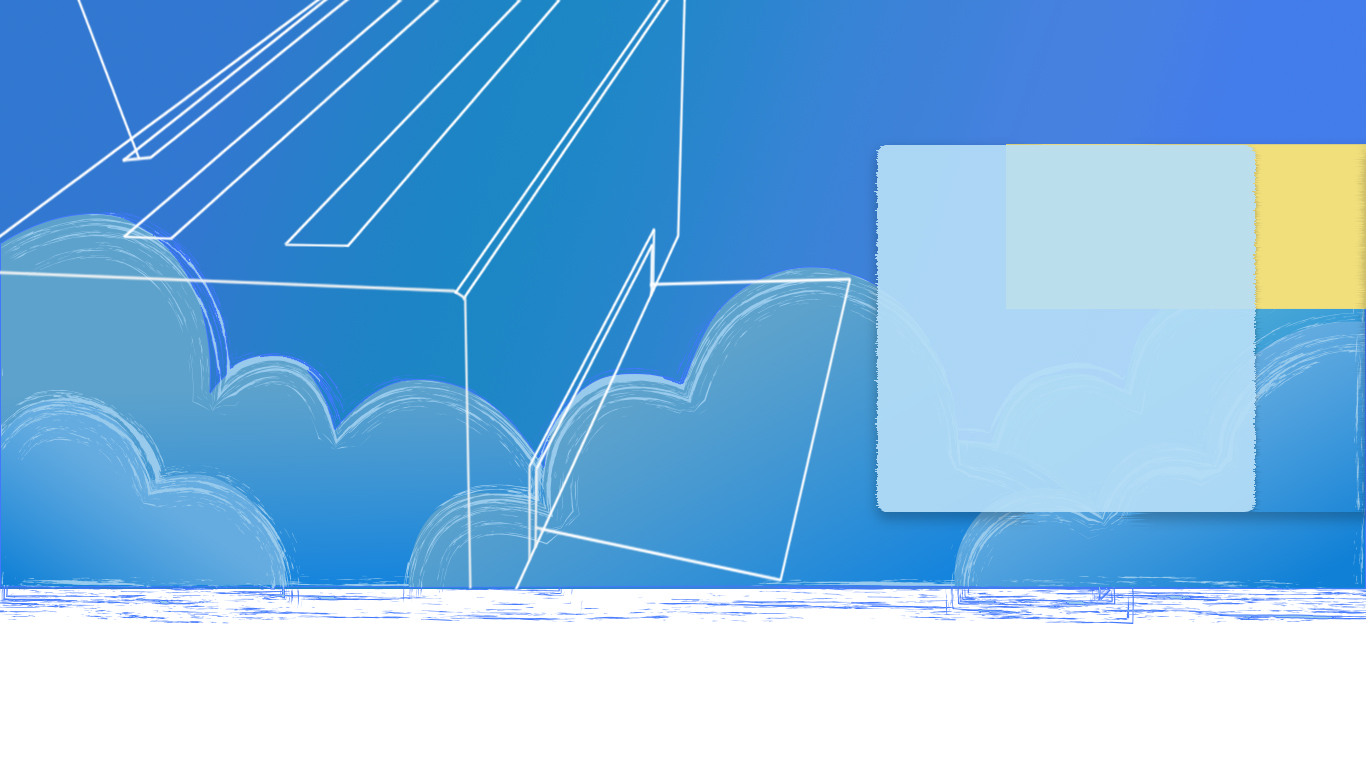
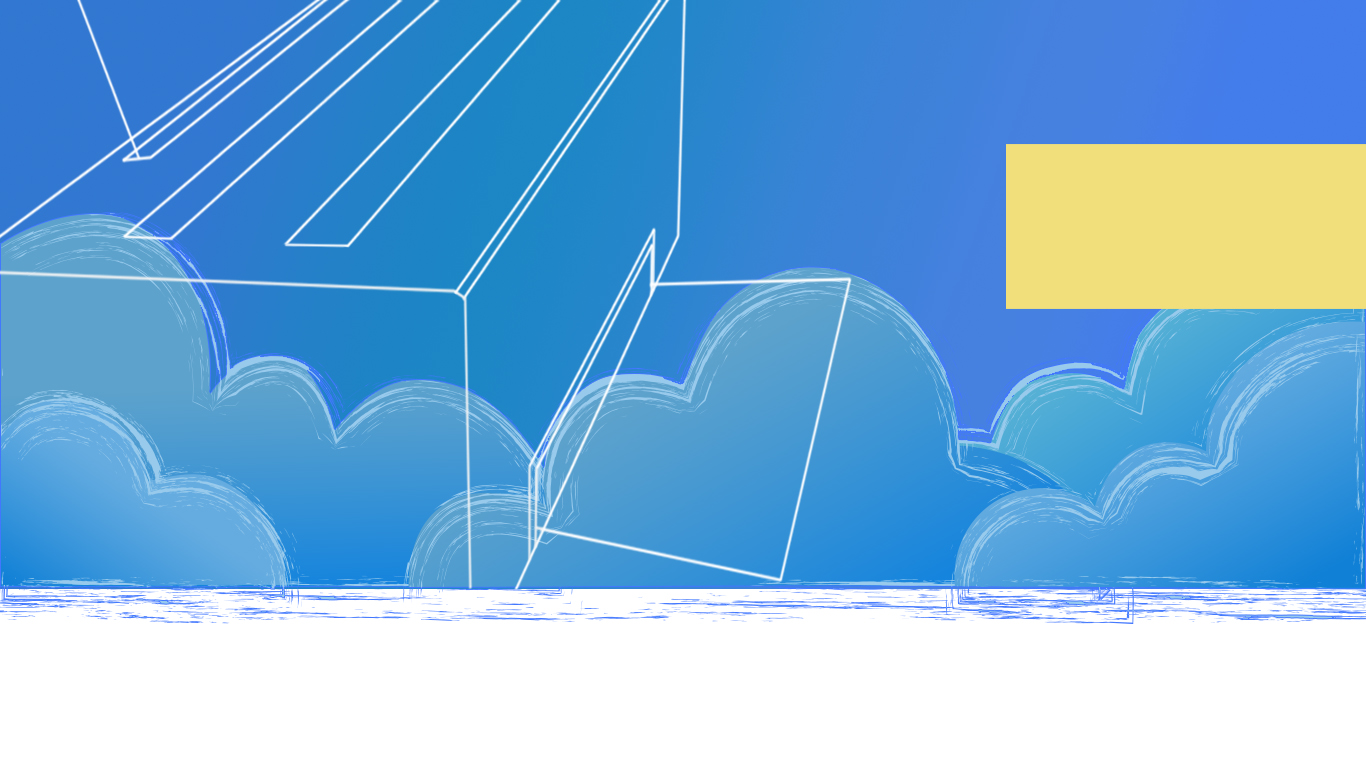
1. 文件名太长时显示 ... 2. 商家订单页增加 "创建时间" 列，并自动降序 3. 文件名等和按钮对齐

Changed region(s): [[0.6149, 0.1875, 1.0, 0.6875], [0.9839, 0.2188, 1.0, 0.5625]]

diff --git a/src/components/Table/UnFinishList.js b/src/components/Table/UnFinishList.js
@@ -8,7 +8,7 @@
 import React from 'react';
 import PropTypes from 'prop-types';
 import { Table, Button, Modal, Icon, Popconfirm } from 'antd';
-
+import styles from './UnFinishList.css'
 class UnFinishList extends React.Component {
 
   constructor(props){
@@ -73,11 +73,11 @@ class UnFinishList extends React.Component {
           file3 = data.file3info;
         if(file1 !== null) {
           if(file2 === null) {
-            return (<span><p>{file1.filename}</p></span>)
+            return (<span><p className={styles.ptitle}>{file1.filename}</p></span>)
           }else if(file3 === null ){
-            return(<span><p>{file1.filename}</p><p>{file2.filename}</p></span>)
+            return(<span><p className={styles.ptitle}>{file1.filename}</p><p className={styles.ptitle}>{file2.filename}</p></span>)
           } else {
-            return(<span><p>{file1.filename}</p><p>{file2.filename}</p><p>{file3.filename}</p></span>)
+            return(<span><p className={styles.ptitle}>{file1.filename}</p><p className={styles.ptitle}>{file2.filename}</p><p className={styles.ptitle}>{file3.filename}</p></span>)
           }
         }
       },
@@ -94,8 +94,8 @@ class UnFinishList extends React.Component {
         return(
           <span>
             <p>{row.file1color ? '彩色' : '黑白'}</p>
-            { file2 === null ? '' : <p>{row.file2color ? '彩色' : '黑白'}</p> }
-            { file3 === null ? '' : <p>{row.file3color ? '彩色' : '黑白'}</p> }
+            { file2 === null ? null : <p>{row.file2color ? '彩色' : '黑白'}</p> }
+            { file3 === null ? null : <p>{row.file3color ? '彩色' : '黑白'}</p> }
           </span>
         )
       },
@@ -111,8 +111,8 @@ class UnFinishList extends React.Component {
         return(
           <span>
             <p>{row.file1style ? '双页' : '单页'}</p>
-            { file2 === null ? '' : <p>{row.file2style ? '双页' : '单页'}</p> }
-            { file3 === null ? '' : <p>{row.file3style ? '双页' : '单页'}</p> }
+            { file2 === null ? null : <p>{row.file2style ? '双页' : '单页'}</p> }
+            { file3 === null ? null : <p>{row.file3style ? '双页' : '单页'}</p> }
           </span>
         )
       },
@@ -128,20 +128,23 @@ class UnFinishList extends React.Component {
         return(
           <span>
             <p>{row.file1num + '份'}</p>
-            { file2 === null ? '' : <p>{row.file2num + '份'}</p> }
-            { file3 === null ? '' : <p>{row.file3num + '份'}</p> }
+            { file2 === null ? null : <p>{row.file2num + '份'}</p> }
+            { file3 === null ? null : <p>{row.file3num + '份'}</p> }
           </span>
         )
       },
     }, {
-      title: '备注',
-      width: 300,
-      dataIndex: 'remark',
-      render: (remark) => { return remark ? remark : '该用户未留备注'}
+      title: '创建时间',
+      align: 'center',
+      dataIndex: 'createtime',
+      defaultSortOrder: 'descend',
+      sorter : (a,b) => a.createtime.replace(/[\-,:, ]/g, "") - b.createtime.replace(/[\-,:, ]/g, ""),
+      key: 4,
     }, {
       title: '操作',
       dataIndex: 'sid',
       align: 'center',
+      width: 70,
       colSpan: 2,
       render: (value, row, index) => {
         let
@@ -151,26 +154,20 @@ class UnFinishList extends React.Component {
         return(
           <span>
             {file1 === null ? '' :
-              <p>
-                <Button type="primary" style={{marginBottom: 5}}>
+                <Button type="primary">
                   <a href={'http://yunprint.applinzi.com/YunPrint/public/upload/' + file1.savename}
                      download={file1.filename}><Icon type="download"/>下载</a>
                 </Button>
-              </p>
             }
-            { file2 === null ? '' :
-              <p>
-                <Button type="primary" style={{marginBottom: 5}}>
+            { file2 === null ? null :
+                <Button type="primary" style={{marginTop: 8}}>
                   <a href={'http://yunprint.applinzi.com/YunPrint/public/upload/' + file2.savename} download={file2.filename}><Icon type="download" />下载</a>
                 </Button>
-              </p>
             }
-            { file3 === null ? '' :
-              <p>
-                <Button type="primary">
+            { file3 === null ? null :
+                <Button type="primary" style={{marginTop: 8}}>
                   <a href={'http://yunprint.applinzi.com/YunPrint/public/upload/' + file3.savename} download={file3.filename}><Icon type="download" />下载</a>
                 </Button>
-              </p>
             }
           </span>
         )
@@ -179,6 +176,7 @@ class UnFinishList extends React.Component {
       dataIndex: 'finishtime',
       align: 'center',
       colSpan: 0,
+      width: 70,
       render: (value, row, index) => {
         return(
           <span>

diff --git a/src/components/Table/UnAccetpList.js b/src/components/Table/UnAccetpList.js
@@ -99,7 +99,7 @@ class UnAccetpList extends React.Component {
       align: 'center',
       width: 100,
     }, {
-      width: 350,
+      width: 250,
       title: '文件名',
       render: (data) => {
         let
@@ -108,11 +108,11 @@ class UnAccetpList extends React.Component {
           file3 = data.file3info;
         if(file1 != null) {
           if(file2==null) {
-            return (<span><p>{file1.filename}</p></span>)
+            return (<span><p className={styles.ptitle}>{file1.filename}</p></span>)
           }else if(file3 == null ){
-            return(<span><p>{file1.filename}</p><p>{file2.filename}</p></span>)
+            return(<span><p className={styles.ptitle}>{file1.filename}</p><p className={styles.ptitle}>{file2.filename}</p></span>)
           } else {
-            return(<span><p>{file1.filename}</p><p>{file2.filename}</p><p>{file3.filename}</p></span>)
+            return(<span><p className={styles.ptitle}>{file1.filename}</p><p className={styles.ptitle}>{file2.filename}</p><p className={styles.ptitle}>{file3.filename}</p></span>)
           }
         }
       },
@@ -132,6 +132,13 @@ class UnAccetpList extends React.Component {
         );
       },
       key: 3,
+    }, {
+      title: '创建时间',
+      align: 'center',
+      dataIndex: 'createtime',
+      defaultSortOrder: 'descend',
+      sorter : (a,b) => a.createtime.replace(/[\-,:, ]/g, "") - b.createtime.replace(/[\-,:, ]/g, ""),
+      key: 4,
     }, {
       title: '操作',
       align: 'center',

diff --git a/src/components/Table/ShopOrderList.js b/src/components/Table/ShopOrderList.js
@@ -108,11 +108,11 @@ class ShopOrderList extends React.Component {
           file3 = data.file3info;
         if(file1 !== null) {
           if(file2===null) {
-            return (<span><p>{file1.filename}</p></span>)
+            return (<span><p className={styles.ptitle}>{file1.filename}</p></span>)
           }else if(file3 === null ){
-            return(<span><p>{file1.filename}</p><p>{file2.filename}</p></span>)
+            return(<span><p className={styles.ptitle}>{file1.filename}</p><p className={styles.ptitle}>{file2.filename}</p></span>)
           } else {
-            return(<span><p>{file1.filename}</p><p>{file2.filename}</p><p>{file3.filename}</p></span>)
+            return(<span><p className={styles.ptitle}>{file1.filename}</p><p className={styles.ptitle}>{file2.filename}</p><p className={styles.ptitle}>{file3.filename}</p></span>)
           }
         }
       },
@@ -121,7 +121,6 @@ class ShopOrderList extends React.Component {
       width: 150,
       title: '订单状态',
       dataIndex: 'status',
-      defaultSortOrder: 'ascend',
       sorter : (a,b) => a.status - b.status,
       render: (status) => {
         return (
@@ -138,6 +137,7 @@ class ShopOrderList extends React.Component {
       title: '创建时间',
       align: 'center',
       dataIndex: 'createtime',
+      defaultSortOrder: 'descend',
       sorter : (a,b) => a.createtime.replace(/[\-,:, ]/g, "") - b.createtime.replace(/[\-,:, ]/g, ""),
       key: 4,
     }, {

diff --git a/src/components/Table/ShopFinishList.js b/src/components/Table/ShopFinishList.js
@@ -8,7 +8,7 @@
 import React from 'react';
 import PropTypes from 'prop-types';
 import { Table, Button, Modal,Card } from 'antd';
-
+import styles from './UnFinishList.css'
 
 class ShopFinishList extends React.Component {
 
@@ -104,11 +104,11 @@ class ShopFinishList extends React.Component {
           file3 = data.file3info;
         if(file1 != null) {
           if(file2==null) {
-            return (<span><p>{file1.filename}</p></span>)
+            return (<span><p className={styles.ptitle}>{file1.filename}</p></span>)
           }else if(file3 == null ){
-            return(<span><p>{file1.filename}</p><p>{file2.filename}</p></span>)
+            return(<span><p className={styles.ptitle}>{file1.filename}</p><p className={styles.ptitle}>{file2.filename}</p></span>)
           } else {
-            return(<span><p>{file1.filename}</p><p>{file2.filename}</p><p>{file3.filename}</p></span>)
+            return(<span><p className={styles.ptitle}>{file1.filename}</p><p className={styles.ptitle}>{file2.filename}</p><p className={styles.ptitle}>{file3.filename}</p></span>)
           }
         }
       },

diff --git a/src/routes/Login/Login.js b/src/routes/Login/Login.js
@@ -8,6 +8,7 @@
 import React from 'react'
 import { connect } from 'dva'
 import { Button, Input, Icon, Form,Checkbox } from 'antd'
+import Logo from '../../components/Logo/Logo'
 import styles from './Login.css'
 
 const FormItem = Form.Item;
@@ -37,7 +38,10 @@ const Login = ({
   }
   return (
     <div className={styles.normal}>
-      <img alt="" src={require('../../assets/logo1.png')} className={styles.logo}/>
+      <div className={styles.logo}>
+        <img alt="" src={require('../../assets/logo1.png')} className={styles["logo-icon"]} />
+        <p className={styles["logo-text"]}>云打印</p>
+      </div>
       <div className={styles.bg}>
         <Form className={[styles["login-form"]]}>
           <FormItem>
@@ -67,9 +71,6 @@ const Login = ({
               登&nbsp;&nbsp;&nbsp;录
             </Button>
             <p  className={styles["register-btn"]}>没有账号？去 <a onClick={handleSubReg}>注册</a></p>
-          </FormItem>
-          <FormItem>
-
           </FormItem>
         </Form>
       </div>

diff --git a/src/routes/Login/Login.css b/src/routes/Login/Login.css
@@ -1,16 +1,25 @@
 
-.bg {
+.normal {
   background: url("../../assets/bg.jpg");
   background-size: 100% 100%;
+  position: absolute;
   height: 100%;
   width: 100%;
   min-height: 700px;
   min-width: 1280px;
 }
+.bg {
+  background: url("../../assets/loginbg.png") 100% 100%;
+  position: absolute;
+  right: 0;
+  top: 17%;
+  width: 500px;
+  height: 400px;
+}
 .login-form {
+  margin-top: 80px;
+  margin-left: 80px;
   width: 240px;
-  margin-left: 70%;
-  padding-top: 170px;
 }
 .ant-input-affix-wrapper {
   height: 42px;
@@ -34,8 +43,27 @@
   height: 20px;
   margin-top: -10px;
 }
+/*.logo {*/
+  /*position: absolute;*/
+  /*top: 15px;*/
+  /*left: 20px;*/
+/*}*/
 .logo {
+  width: 150px;
+  height: 30px;
+  text-align:center;
+  position:relative;
+  margin-left: 20px;
+  margin-top: 15px;
+}
+.logo-icon {
+  height: 40px;
+  float: left;
+}
+.logo-text {
+  font-size: 20px;
   position: absolute;
-  top: 15px;
-  left: 20px;
+  padding-left: 69px;
+  padding-top: 12px;
+  color: #FFF;
 }

diff --git a/src/components/Table/OrderList.js b/src/components/Table/OrderList.js
@@ -109,11 +109,11 @@ class OrderList extends React.Component {
           file3 = data.file3info;
         if(file1 != null) {
           if(file2==null) {
-            return (<span><p>{file1.filename}</p></span>)
+            return (<span><p className={styles.ptitle}>{file1.filename}</p></span>)
           }else if(file3 == null ){
-            return(<span><p>{file1.filename}</p><p>{file2.filename}</p></span>)
+            return (<span><p className={styles.ptitle}>{file1.filename}</p><p className={styles.ptitle}>{file2.filename}</p></span>)
           } else {
-            return(<span><p>{file1.filename}</p><p>{file2.filename}</p><p>{file3.filename}</p></span>)
+            return (<span><p className={styles.ptitle}>{file1.filename}</p><p className={styles.ptitle}>{file2.filename}</p><p className={styles.ptitle}>{file3.filename}</p></span>)
           }
         }
       },

diff --git a/src/components/Table/AllFileList.js b/src/components/Table/AllFileList.js
@@ -8,7 +8,7 @@
 import React from 'react';
 import PropTypes from 'prop-types';
 import { Table, Button, Popconfirm, Icon } from 'antd';
-
+import styles from './MyList.css'
 
 class AllFileList extends React.Component {
 
@@ -32,6 +32,11 @@ class AllFileList extends React.Component {
       width: 350,
       title: '文件名',
       dataIndex: 'filename',
+      render: (filename) => {
+        return(
+          <p className={styles.ptitle}>{filename}</p>
+        )
+      }
     }, {
       width: 150,
       title: '提供者',

diff --git a/src/components/Table/MyFileList.js b/src/components/Table/MyFileList.js
@@ -32,6 +32,11 @@ class OrderList extends React.Component {
       width: 350,
       title: '文件名',
       dataIndex: 'filename',
+      render: (filename) => {
+        return(
+          <p className={styles.ptitle}>{filename}</p>
+        )
+      }
     }, {
       title: '上传时间',
       align: 'center',

diff --git a/src/components/Logo/Logo.css b/src/components/Logo/Logo.css
@@ -12,10 +12,10 @@
   float: left;
 }
 .logo-text {
-  font-size: 12px;
+  font-size: 16px;
   position: absolute;
-  padding-left: 67px;
-  padding-top: 12px;
-  /*color: #0F90E8;*/
-  color: transparent;
+  padding-left: 65px;
+  padding-top: 8px;
+  color: #0F90E8;
+  /*color: transparent;*/
 }

diff --git a/src/components/Table/OrderList.css b/src/components/Table/OrderList.css
@@ -15,3 +15,10 @@
 .orderbtn3 {
   margin-left: 10px;
 }
+.ptitle {
+  max-width: 330px;
+  white-space: nowrap;
+  overflow: hidden;
+  text-overflow: ellipsis;
+  padding-top: 11px;
+}

diff --git a/src/components/Table/ShopOrderList.css b/src/components/Table/ShopOrderList.css
@@ -7,3 +7,10 @@
 .orderbtn3 {
   margin-left: 30px;
 }
+.ptitle {
+  max-width: 330px;
+  white-space: nowrap;
+  overflow: hidden;
+  text-overflow: ellipsis;
+  padding-top: 11px;
+}
